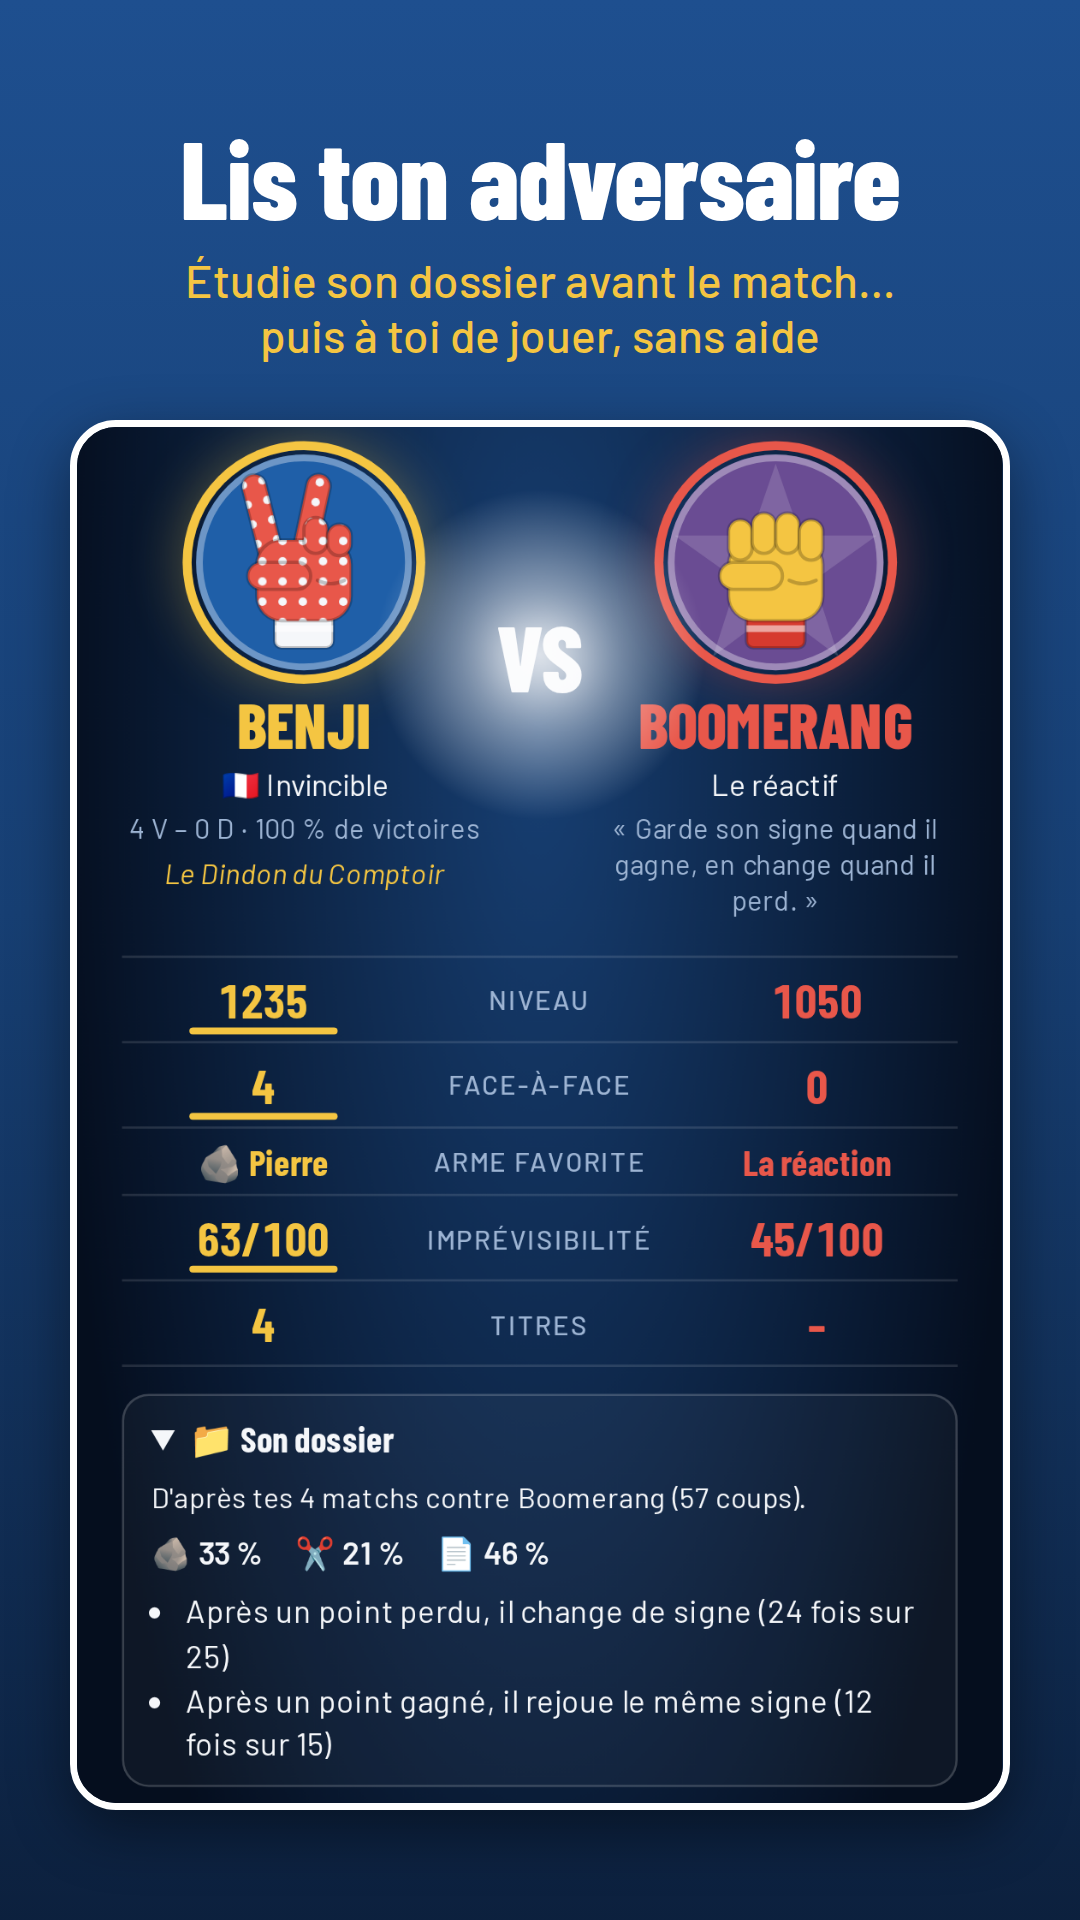
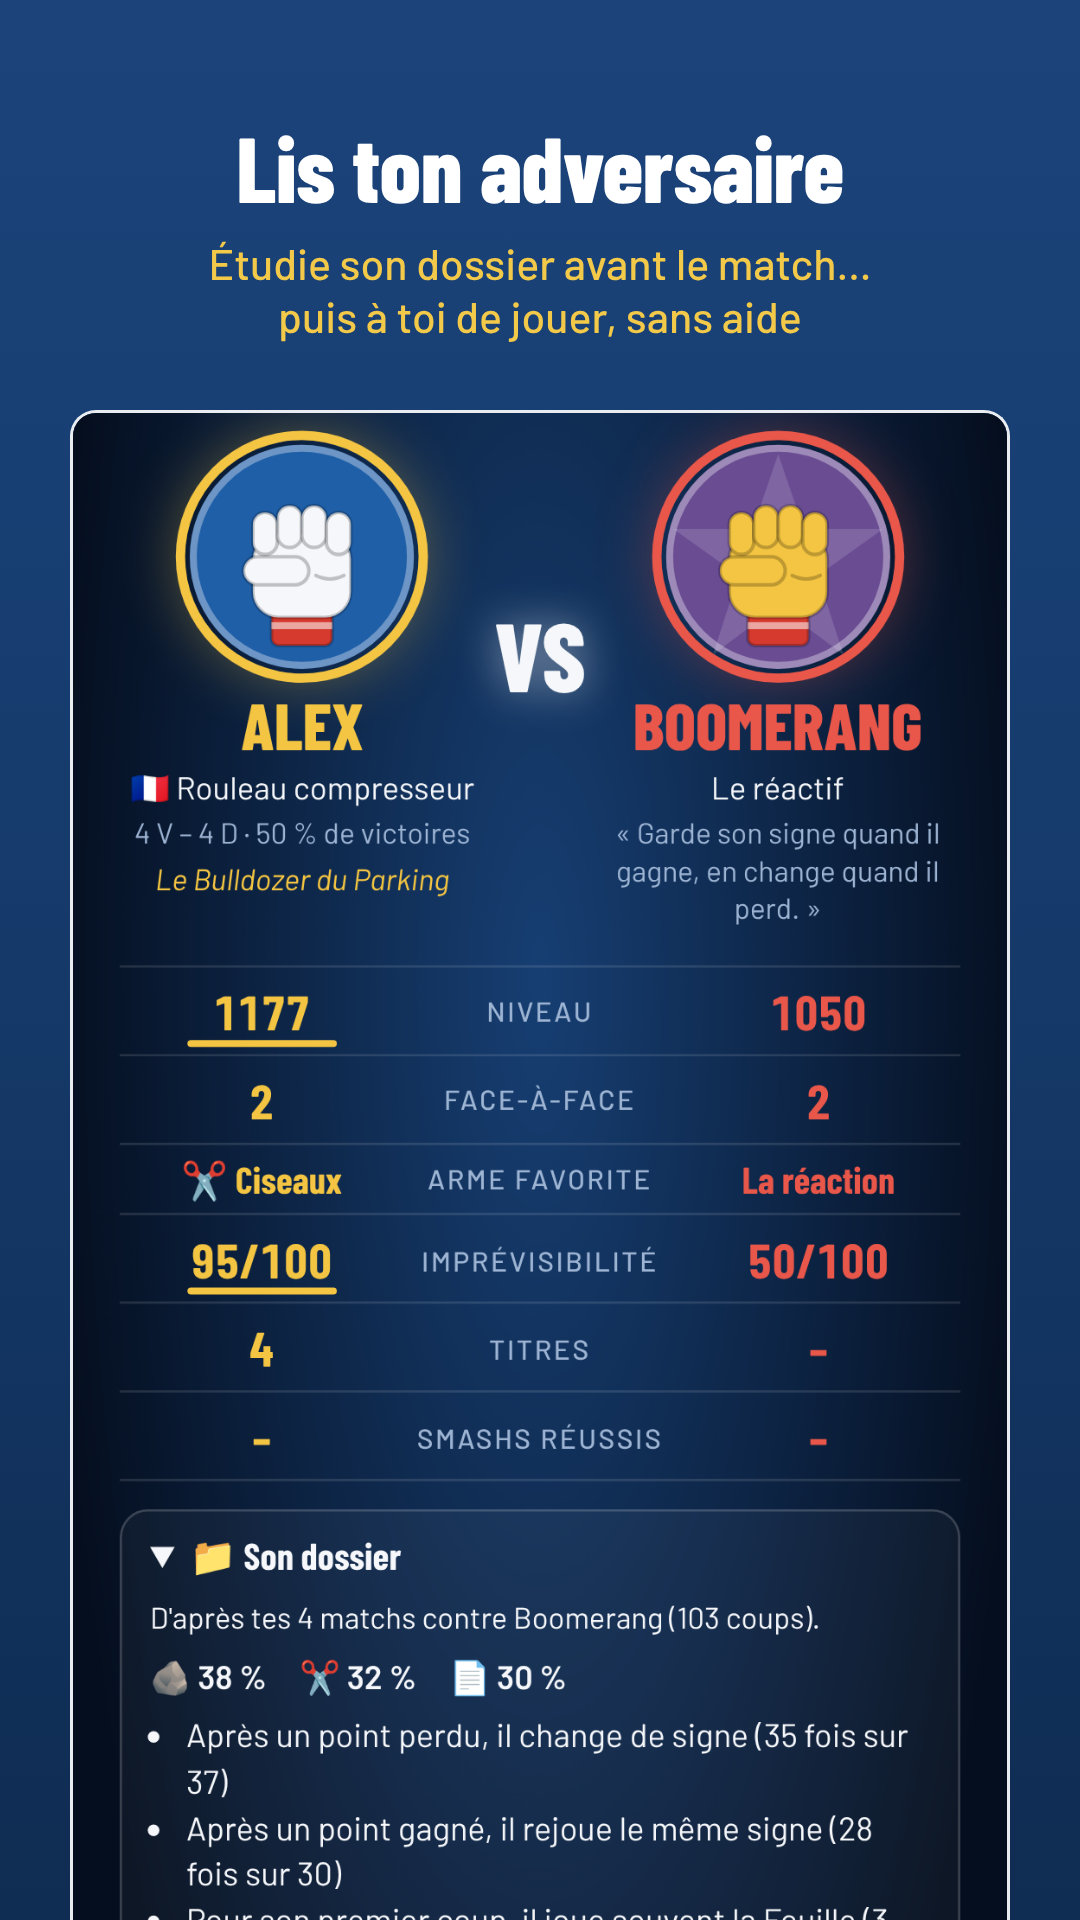
Fiche du Play Store mise à jour : description courte avec « chifoumi », description sans les tournois, 6 captures refaites (la Carrière solo à la place des tournois)
Claude-Session: https://claude.ai/code/session_012NAry4zsy5v85iNf7bYDLD

Changed region(s): [[0.0306, 0.0625, 0.9778, 1.0], [0.4583, 0.5, 0.55, 0.5312], [0.8556, 0.7188, 0.8861, 0.75]]

diff --git a/docs/play-store/fiche.md b/docs/play-store/fiche.md
@@ -12,11 +12,13 @@ Tout ce qu'il faut copier dans la Play Console (Croissance › Présence sur le 
 
 **Envoyé pour examen le 22 octobre** : le nom, la description courte et la description complète (avec la Carrière solo).
 
-**Description courte** (80 caractères au plus, choisie le 22 octobre) :
+**Mise à jour du 6 novembre** (avant la sortie, accord du porteur du projet) : nouvelle description courte avec « chifoumi », description complète sans « Des tournois chaque jour » (le bouton Tournois est caché pour le lancement), avec le stade et les répliques, et les 6 captures refaites.
 
-> Pierre-Feuille-Ciseaux devient un sport : duels et tournois commentés en direct.
+**Description courte** (80 caractères au plus, choisie le 6 novembre) :
 
-(80 caractères tout juste, d'où l'absence de « Le » au début. Ancienne, du 3 octobre : « Le hasard n'existe pas : lis ton adversaire et deviens champion de Chifoumi. »)
+> Le chifoumi devient un sport : duels, carrière et matchs commentés en direct.
+
+(77 caractères. Ancienne, du 22 octobre : « Pierre-Feuille-Ciseaux devient un sport : duels et tournois commentés en direct. »)
 
 **Description complète** (4 000 caractères au plus ; le texte seul, prêt à copier, est dans `description.txt`) :
 
@@ -26,20 +28,21 @@ Tout ce qu'il faut copier dans la Play Console (Croissance › Présence sur le 
 >
 > Sur HandSlam, deviner ces réflexes devient un art : observe, anticipe, frappe au bon moment. Et méfie-toi : ton adversaire te lit aussi.
 >
-> Sets, balles de match, arbitre, commentateurs survoltés, tournois et classements : bienvenue dans le Pierre-Feuille-Ciseaux joué comme un sport de haut niveau. 🎾✂
+> Sets, balles de match, arbitre, commentateurs survoltés, stade en délire et classements : bienvenue dans le chifoumi joué comme un sport de haut niveau. 🎾✂
 >
 > UN VRAI MATCH
-> • Des sets de 11 points, des balles de set et de match, un arbitre et deux commentateurs, Roland et Monique, qui ne laissent rien passer.
+> • Des sets de 11 points, des balles de set et de match, un arbitre et deux commentateurs, Roland et Monique, qui ne laissent rien passer : plus de 1 000 répliques enregistrées.
+> • Un vrai stade : chants de supporters, huées, bronca, et l'hymne avant les finales.
 > • 8 secondes pour choisir ton coup : de quoi réfléchir, pas de quoi hésiter.
 > • À la fin de chaque match, ta Une de « L'Écho du HandSlam » à partager.
 >
 > LIS TON ADVERSAIRE
-> • L'encadré « Lire l'adversaire » te montre ses signes préférés et ses réflexes, par exemple « Après une défaite, il change de signe (6 fois sur 7) ».
+> • Avant chaque match, son dossier : ses signes préférés et ses réflexes, par exemple « Après une défaite, il change de signe (6 fois sur 7) ».
 > • L'appli te dit aussi quand c'est toi qui deviens prévisible.
 >
 > TA CARRIÈRE EN SOLO
-> • Pars du Circuit Amateur et grimpe jusqu'à l'Élite : 5 circuits de 12 joueurs, contre 64 bots qui ont chacun leur caractère.
-> • Une saison de 11 journées, puis les playoffs pour monter, ou le maintien pour ne pas descendre, avec barrages à la clé.
+> • Pars du Circuit Amateur et grimpe jusqu'à l'Élite : 5 circuits, contre 64 bots qui ont chacun leur caractère.
+> • Une saison, puis les playoffs pour monter, et des barrages pour ne pas descendre.
 > • La Coupe Monique-Latour : 64 joueurs, toutes divisions confondues, tirage au sort à chaque tour. Le petit poucet peut faire tomber le roi.
 > • Coupes, boucliers et trophées à collectionner dans ta vitrine, et des récompenses qui ne s'achètent pas : il faut les gagner.
 >
@@ -47,16 +50,12 @@ Tout ce qu'il faut copier dans la Play Console (Croissance › Présence sur le 
 > • Entraîne-toi contre des bots au caractère bien trempé : Bambi le débutant, Chaos l'imprévisible, Rancune, le Professeur, Titan…
 > • Le match du jour : le même défi pour tout le monde, un seul essai, un résultat à partager.
 > • Défie tes amis en direct, par pseudo ou par lien, ou lance une partie rapide contre un joueur de ton niveau.
->
-> DES TOURNOIS CHAQUE JOUR
-> • Le freeroll gratuit chaque soir à 20 h.
-> • Des heads-up et des Sit & Go qui démarrent dès que la salle est pleine.
-> • Des tournois et des championnats entre amis, avec un niveau officiel et des classements.
+> • Crée des cercles avec tes amis : votre classement, vos tournois et vos championnats.
 >
 > TON STYLE
 > • Ta carte de joueur, de Bois à Légende, avec tes notes et ton surnom.
-> • Ton avatar, ton cri de victoire, ta poignée de main, et plus de 40 trophées à débloquer.
-> • Crée des cercles avec tes amis et affrontez-vous dans leur classement.
+> • Ta main (gant, couleurs, motifs), ton cri de victoire, ta poignée de main, et plus de 40 trophées à débloquer.
+> • Les Cahiers du HandSlam : la revue du chifoumi, entre philosophie, technique et chroniques.
 >
 > BON À SAVOIR
 > • Gratuit, sans publicité.
@@ -70,9 +69,9 @@ Tout ce qu'il faut copier dans la Play Console (Croissance › Présence sur le 
 |---|---|
 | Icône de l'appli (512 × 512) | `icone-512.png` |
 | Image de présentation (1 024 × 500) | `banniere-1024x500.png` |
-| Captures d'écran du téléphone (dans cet ordre) | `capture-1-match.png`, `capture-2-lire.png`, `capture-3-une.png`, `capture-4-carte.png`, `capture-5-tournois.png`, `capture-6-amis.png` |
+| Captures d'écran du téléphone (dans cet ordre) | `capture-1-match.png`, `capture-2-lire.png`, `capture-3-une.png`, `capture-4-carte.png`, `capture-5-carriere.png`, `capture-6-amis.png` |
 
-Captures faites dans l'appli (version du 7 octobre 2026), en 1 080 × 1 920. Il manque des écrans en ligne (Sit & Go, tournois programmés) : à ajouter avec un compte, plus tard.
+Captures refaites le 6 novembre 2026 dans l'appli (version de lancement), en 1 080 × 1 920 : le match, le dossier de l'adversaire, la Une, la carte de joueur, la Carrière solo (à la place des tournois), le menu Jouer. Dans la Play Console, remplacer les 6 anciennes captures par celles-ci (supprimer l'ancienne n° 5, « Des tournois chaque jour »).
 
 ## Autres renseignements
 
